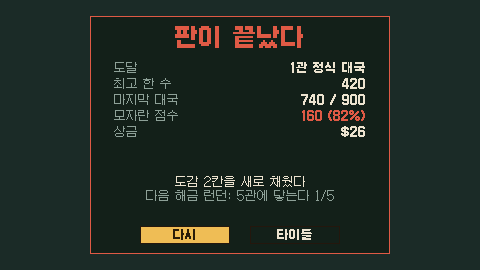
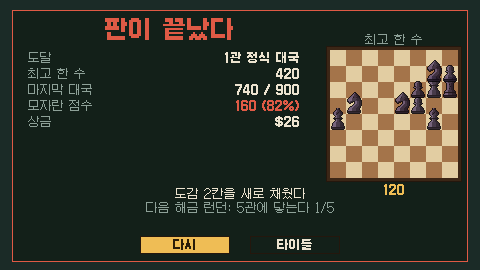
결과 화면에서 이번 판 최고 한 수를 작은 판에 되풀이해 다시 둔다 — HOOKS 「다음 판을 부르는 장치」(재생 가능한 최고 한 수)

diff --git a/src/ui/screens/result.js b/src/ui/screens/result.js
@@ -1,12 +1,17 @@
-// 판 결과: 이김/짐, 도달 관, 최고 한 수, 목표에 모자란 점수(아슬아슬), 모은 조각. 「다시」 / 「타이틀」.
+// 판 결과: 이김/짐, 도달 관, 최고 한 수(작은 판에 다시 둔다), 목표에 모자란 점수(아슬아슬), 모은 조각,
+// 새 도감 칸 · 해금 알림 · 다음 해금까지. 「다시」 / 「타이틀」.
 import { PAL } from '../../render/palette.js';
-import { W, H, text, box, rect, num } from '../../render/gfx.js';
+import { W, H, text, box, rect, frame, sprite, num, line } from '../../render/gfx.js';
 import { LEGENDS } from '../../data/legends.js';
+import { OPENINGS } from '../../data/openings.js';
 import { button } from '../ui.js';
 import { KIND_NAME } from '../words.js';
 import { shardIcon } from '../parts.js';
-import { OPENINGS } from '../../data/openings.js';
 import { nextUnlock } from '../records.js';
+import { lerp } from '../anim.js';
+
+const Q = 16, MX = 330, MY = 50; // 다시 보기 판: 칸 16px
+const STEP = 0.5;
 
 export class ResultScreen {
   constructor(app) {
@@ -20,47 +25,91 @@ export class ResultScreen {
     this.last = last;
     this.short = !this.won && last && last.target ? Math.max(0, last.target - last.score) : 0;
     this.pct = last && last.target ? Math.floor((last.score / last.target) * 100) : 0;
+    this.replay = run.bestReplay || null;
     app.sfx(this.won ? 'fanfare' : 'lose');
     this.out = app.finishRun() || { unlocked: [], dan: null, fresh: 0 };
     this.next = nextUnlock(app.records);
   }
   update(dt) { this.t += dt; }
+
+  xy(sq) { return { x: MX + (sq & 7) * Q, y: MY + (7 - (sq >> 3)) * Q }; }
+  drawReplay(ctx) {
+    const r = this.replay;
+    box(ctx, MX - 4, MY - 4, Q * 8 + 8, Q * 8 + 8, PAL.frame, PAL.frameDk);
+    for (let rr = 0; rr < 8; rr++) for (let f = 0; f < 8; f++) rect(ctx, MX + f * Q, MY + rr * Q, Q, Q, (rr + f) % 2 ? PAL.dark : PAL.light);
+    if (!r) return;
+    const n = r.caps.length;
+    const cycle = 0.8 + n * STEP + 1.6;
+    const t = this.t % cycle - 0.8;          // < 0: 떨구기 전
+    const done = t < 0 ? -1 : Math.min(n, Math.floor(t / STEP));
+    const p = t < 0 ? 0 : Math.min(1, (t - done * STEP) / 0.25);
+    // 적: 먹힌 것은 지운다
+    const gone = new Set(r.caps.slice(0, Math.max(0, done)).map((c) => c.to));
+    const cur = done >= 0 && done < n ? r.caps[done] : null;
+    if (cur && p >= 1) gone.add(cur.to);
+    r.board.forEach((c, sq) => {
+      if (!c || c.mine || gone.has(sq)) return;
+      const { x, y } = this.xy(sq);
+      sprite(ctx, c.t, 'b', x, y - 6, { alpha: 0.9 });
+    });
+    if (t < 0) return;
+    // 지나온 길
+    let pos = r.drop.sq, form = r.drop.piece;
+    const path = [pos];
+    for (let i = 0; i < Math.min(done, n); i++) { pos = r.caps[i].to; form = r.caps[i].after; path.push(pos); }
+    for (let i = 0; i + 1 < path.length; i++) { const a = this.xy(path[i]), b = this.xy(path[i + 1]); line(ctx, a.x + 8, a.y + 8, b.x + 8, b.y + 8, PAL.gold); }
+    let x = this.xy(pos).x, y = this.xy(pos).y;
+    if (cur) {
+      const a = this.xy(cur.from), b = this.xy(cur.to);
+      x = lerp(a.x, b.x, p); y = lerp(a.y, b.y, p);
+      form = p >= 1 ? cur.after : cur.form;
+    }
+    sprite(ctx, form, 'w', x, y - 6);
+    if (done >= n) {
+      const e = this.xy(pos);
+      frame(ctx, e.x, e.y, Q, Q, r.reason === 'cut' ? PAL.red : PAL.gold);
+    }
+  }
+
   draw(ctx, ui) {
     const app = this.app, run = app.run;
-    const x = 90, y = 16, w = 300, h = 238;
+    const x = 12, y = 10, w = W - 24, h = 252;
     box(ctx, x, y, w, h, PAL.feltDk, this.won ? PAL.gold : PAL.red);
     const title = run.endless && !this.won ? `끝없는 대국 ${run.ante}관` : this.won ? '여덟 관을 꺾었다' : '판이 끝났다';
-    text(ctx, title, W / 2, y + 10, this.won || run.endless ? PAL.gold : PAL.red, { align: 'center', bold: true, scale: 2 });
+    text(ctx, title, 170, y + 8, this.won || run.endless ? PAL.gold : PAL.red, { align: 'center', bold: true, scale: 2 });
     const rows = [];
     if (this.last) rows.push(['도달', `${run.ante}관 ${KIND_NAME[this.last.kind]}`]);
-    rows.push(['최고 한 수', num(this.best)]);
+    rows.push(['최고 한 수', num(this.replay ? Math.max(this.best, this.replay.score) : this.best)]);
     if (!this.won && this.last) {
       rows.push(['마지막 대국', `${num(this.last.score)} / ${num(this.last.target)}`]);
       if (this.short > 0) rows.push(['모자란 점수', `${num(this.short)} (${this.pct}%)`]);
     }
     rows.push(['상금', `$${run.money}`]);
     rows.forEach(([a, b], i) => {
-      text(ctx, a, x + 24, y + 46 + i * 16, PAL.dim);
-      text(ctx, b, x + w - 24, y + 46 + i * 16, i === 3 && this.short > 0 ? PAL.red : PAL.ink, { align: 'right', bold: true });
+      text(ctx, a, x + 16, y + 42 + i * 16, PAL.dim);
+      text(ctx, b, 300, y + 42 + i * 16, a === '모자란 점수' ? PAL.red : PAL.ink, { align: 'right', bold: true });
     });
+    // 최고 한 수 다시 보기
+    text(ctx, '최고 한 수', MX + 64, MY - 16, PAL.dim, { align: 'center' });
+    this.drawReplay(ctx);
+    if (this.replay) text(ctx, num(this.replay.score), MX + 64, MY + Q * 8 + 6, PAL.gold, { align: 'center', bold: true });
     // 조각
-    const yy = y + 52 + rows.length * 16;
+    const yy = y + 48 + rows.length * 16;
     const got = LEGENDS.filter((l) => run.fragments[l.id] && (run.fragments[l.id].first || run.fragments[l.id].feat || run.fragments[l.id].gold));
     if (got.length) {
-      text(ctx, '모은 조각', x + 24, yy, PAL.dim);
-      got.forEach((l, i) => {
+      text(ctx, '모은 조각', x + 16, yy, PAL.dim);
+      got.slice(0, 3).forEach((l, i) => {
         const f = run.fragments[l.id];
         const n = (f.first ? 1 : 0) + (f.feat ? 1 : 0) + (f.gold ? 1 : 0);
         const yl = yy + 16 + i * 16;
-        text(ctx, l.name, x + 24, yl, run.legends.includes(l.id) ? PAL.gold : PAL.ink);
+        text(ctx, l.name, x + 16, yl, run.legends.includes(l.id) ? PAL.gold : PAL.ink);
         for (let k = 0; k < 3; k++) {
-          if (k < n) shardIcon(ctx, x + w - 80 + k * 20, yl, PAL.gold, PAL.goldDk);
-          else rect(ctx, x + w - 78 + k * 20, yl + 4, 10, 6, PAL.frame);
+          if (k < n) shardIcon(ctx, 236 + k * 22, yl, PAL.gold, PAL.goldDk);
+          else rect(ctx, 238 + k * 22, yl + 4, 10, 6, PAL.frame);
         }
       });
     }
     // 판 밖에 남은 것: 새 도감 칸 · 해금 · 다음 해금까지
-    const ny = y + h - 64;
     const notes = [];
     if (this.out.fresh) notes.push([`도감 ${this.out.fresh}칸을 새로 채웠다`, PAL.ink]);
     if (this.out.deeper) notes.push([`끝없는 대국 가장 깊은 곳 ${this.out.endless}관`, PAL.gold]);
@@ -68,15 +117,16 @@ export class ResultScreen {
     if (this.out.dan) notes.push([`${this.out.dan}단이 열렸다`, PAL.gold]);
     if (!this.out.unlocked.length && this.next) notes.push([`다음 해금 ${OPENINGS[this.next.id].name}: ${this.next.text} ${this.next.have}/${this.next.need}`, PAL.dim]);
     if (run.daily) notes.push([`오늘의 대국 ${run.daily}`, PAL.goldDk]);
-    notes.slice(-3).forEach(([s, c], i) => text(ctx, s, W / 2, ny - (notes.slice(-3).length - 1 - i) * 14, c, { align: 'center' }));
-    const by = y + h - 28;
+    const shown = notes.slice(-3);
+    shown.forEach(([s, c], i) => text(ctx, s, W / 2, y + h - 74 + i * 14, c, { align: 'center' }));
+    const by = y + h - 26;
     if (this.won) {
-      button(ctx, ui, 'result:endless', x + 20, by, 80, 18, '계속 두기', { onClick: () => this.endless() });
-      button(ctx, ui, 'result:again', x + 110, by, 80, 18, '다시', { onClick: () => this.again(), tone: 'gold' });
-      button(ctx, ui, 'result:title', x + 200, by, 80, 18, '타이틀', { onClick: () => app.toTitle() });
+      button(ctx, ui, 'result:endless', W / 2 - 150, by, 90, 18, '계속 두기', { onClick: () => this.endless() });
+      button(ctx, ui, 'result:again', W / 2 - 45, by, 90, 18, '다시', { onClick: () => this.again(), tone: 'gold' });
+      button(ctx, ui, 'result:title', W / 2 + 60, by, 90, 18, '타이틀', { onClick: () => app.toTitle() });
     } else {
-      button(ctx, ui, 'result:again', x + 50, by, 90, 18, '다시', { onClick: () => this.again(), tone: 'gold' });
-      button(ctx, ui, 'result:title', x + 160, by, 90, 18, '타이틀', { onClick: () => app.toTitle() });
+      button(ctx, ui, 'result:again', W / 2 - 100, by, 90, 18, '다시', { onClick: () => this.again(), tone: 'gold' });
+      button(ctx, ui, 'result:title', W / 2 + 10, by, 90, 18, '타이틀', { onClick: () => app.toTitle() });
     }
   }
   again() { const r = this.app.run; this.app.newRun({ opening: r.opening, dan: r.dan, daily: !!r.daily }); }

diff --git a/src/ui/screens/battle.js b/src/ui/screens/battle.js
@@ -145,12 +145,30 @@ export class BattleScreen {
     const bRef = this.app.run.battle;
     this.bRef = bRef;
     const v = this.view;
+    const run = this.app.run;
+    if (cmd.type === 'drop') this.rec = { board: clone(bRef.board), drop: { sq: cmd.sq, piece: bRef.hand[cmd.handIndex].t }, caps: [], ante: run.ante };
     const events = this.app.cmd(cmd);
+    this.record(events, run);
     const post = clone(bRef.board);
     for (const e of events) if (e.type === 'reinforce') post[e.sq] = null;
     if (cmd.type === 'drop') v.hand.splice(cmd.handIndex, 1);
     this.targets = null;
     this.play(events, post, cmd);
+  }
+
+  // 이번 판 최고 한 수를 다시 보기용으로 남긴다(결과 화면이 작은 판에 다시 둔다)
+  record(events, run) {
+    const r = this.rec;
+    if (!r) return;
+    for (const e of events) {
+      if (e.type === 'capture') r.caps.push({ from: e.from, to: e.to, piece: e.piece, form: e.form, after: e.form });
+      else if ((e.type === 'transform' || e.type === 'promote') && r.caps.length) r.caps[r.caps.length - 1].after = e.type === 'promote' ? 'Q' : e.to;
+      else if (e.type === 'refill' || e.type === 'redrop') r.broken = true;
+      else if (e.type === 'end') {
+        if (!r.broken && (!run.bestReplay || e.score > run.bestReplay.score)) run.bestReplay = { ...r, score: e.score, reason: e.reason };
+        this.rec = null;
+      }
+    }
   }
 
   // ── 사건 → 연출
